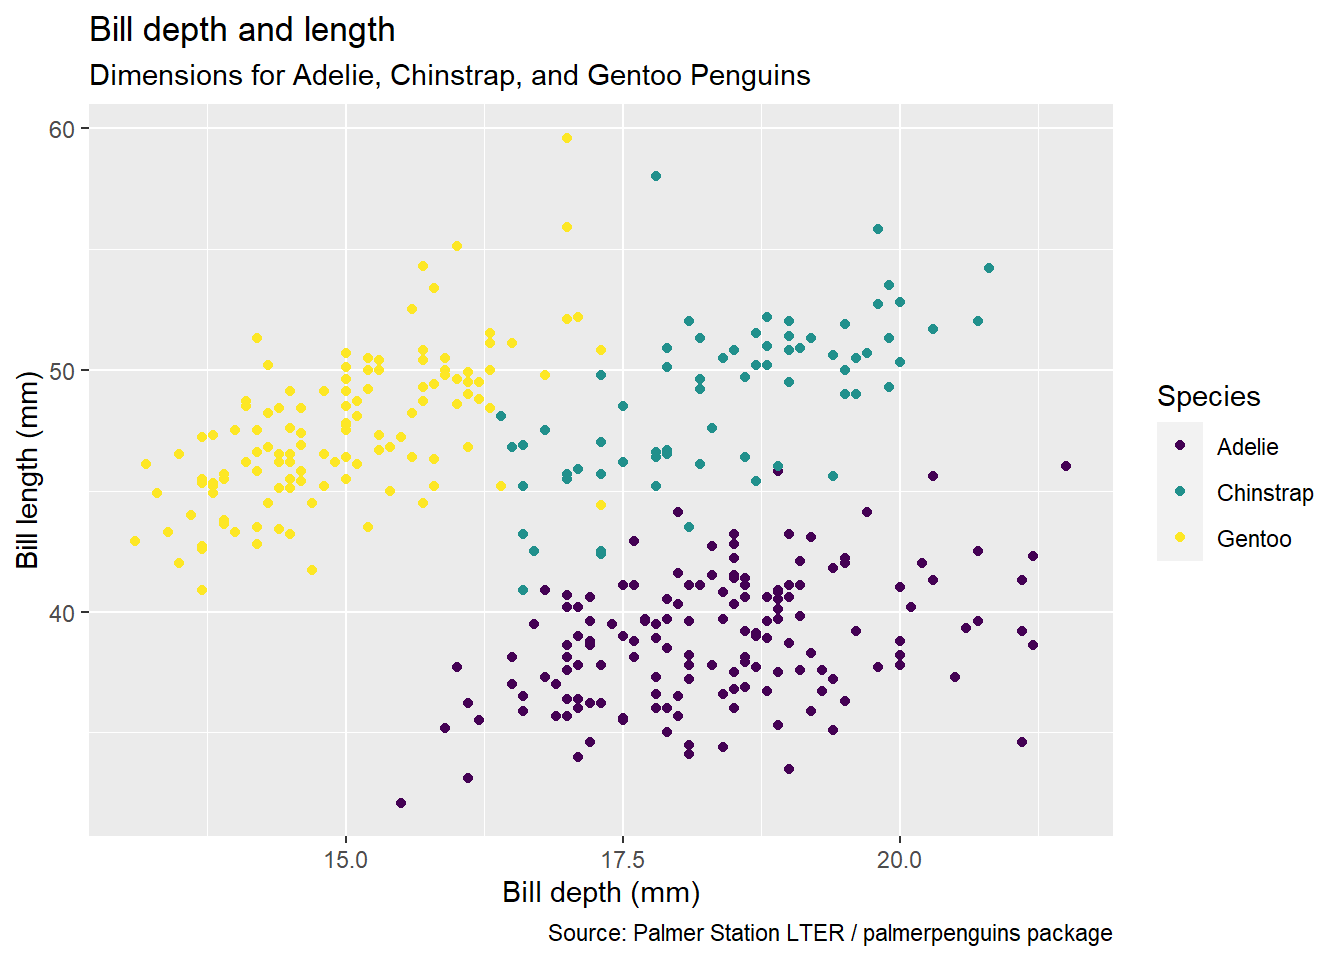
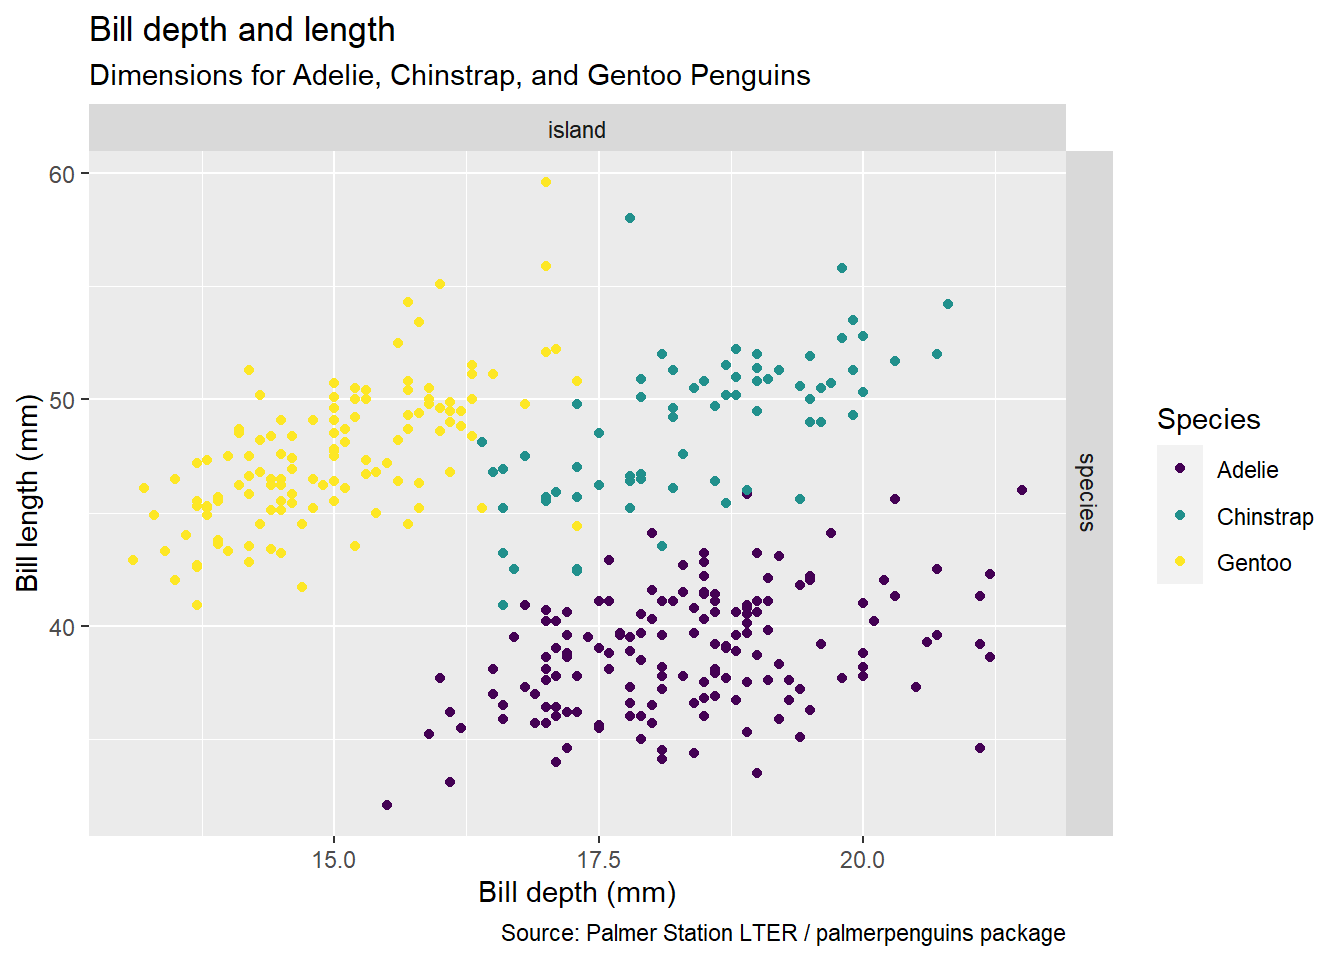
R Console still showing.

diff --git a/content/post/2021-05-18-data-visualization-using-ggplot2/index.html b/content/post/2021-05-18-data-visualization-using-ggplot2/index.html
@@ -14,4 +14,12 @@ tags: []
 <h2>Palmer Penguins Data Analysis</h2>
 <p>We summarize the Palmer Penguins data using ggplot2 and tidyverse.</p>
 <p><img src="{{< blogdown/postref >}}index_files/figure-html/unnamed-chunk-1-1.png" width="672" /></p>
+<p>We add facets to the dat</p>
+<pre class="r"><code>library(palmerpenguins)
+library(tidyverse)
+ggplot(penguins, 
+       aes(x = bill_depth_mm, y = bill_length_mm)) + 
+  geom_point() +
+  facet_grid(&quot;species&quot; ~ &quot;island&quot;)</code></pre>
+<p><img src="{{< blogdown/postref >}}index_files/figure-html/unnamed-chunk-2-1.png" width="672" /></p>
 </div>
